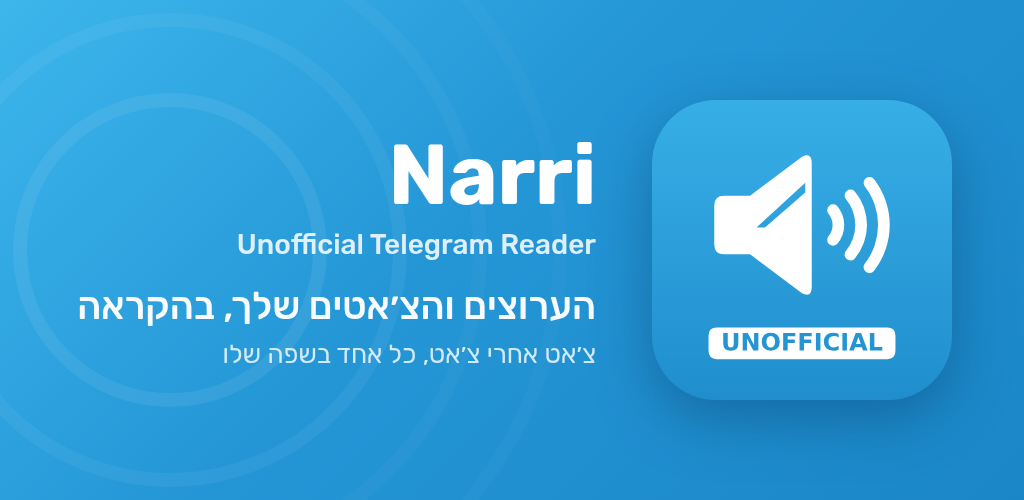
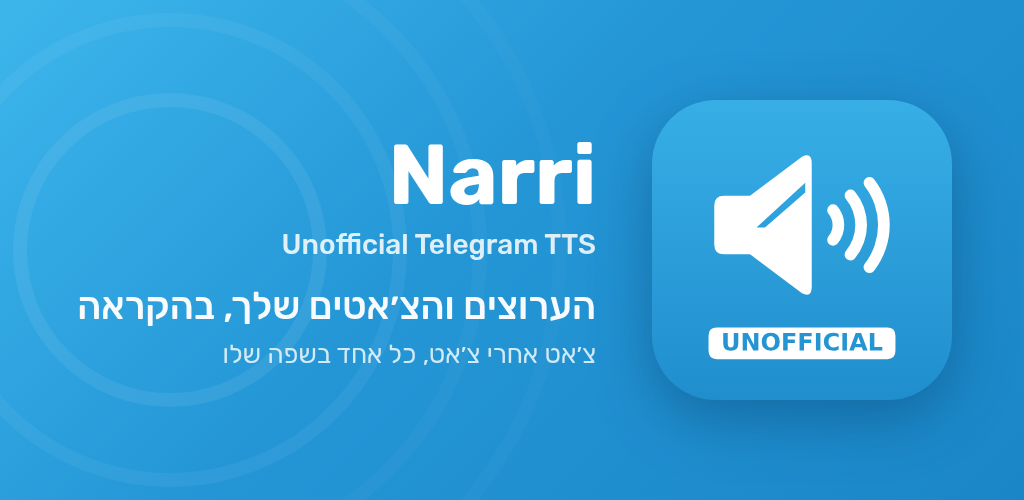
Play title: Narri: Unofficial Telegram TTS (#108)

Changed region(s): [[0.2188, 0.45, 0.5938, 0.54]]

diff --git a/tools/play-assets/generate_store_graphics.py b/tools/play-assets/generate_store_graphics.py
@@ -62,7 +62,7 @@ h1{{margin:0;font-size:84px;font-weight:700;line-height:1.08;letter-spacing:-.5p
 </style></head><body><svg class="bg" width="1024" height="500">{waves}</svg>
 <div class="row"><div class="icon">{icon_svg(300, rounded=64)}</div>
 <div><h1 dir="ltr" style="text-align:{'right' if rtl else 'left'}">Narri</h1>
-<div class="kicker" dir="ltr" style="text-align:{'right' if rtl else 'left'}">Unofficial Telegram Reader</div>
+<div class="kicker" dir="ltr" style="text-align:{'right' if rtl else 'left'}">Unofficial Telegram TTS</div>
 <div class="tag">{tag}</div><div class="sub">{sub}</div></div></div></body></html>"""
 
 

diff --git a/docs/play-data-safety.md b/docs/play-data-safety.md
@@ -117,7 +117,7 @@ Suggested text (option 2):
 
 ## Store listing draft
 
-**App name** (30 max): `Narri: Unofficial Telegram Reader` (33: **over Play's 30-character limit**; if Play Console rejects it, shorten to e.g. `Narri - Unofficial Telegram` (27)). The launcher name (`app_name`) is just `Narri`. Use the same title in every language: Telegram's
+**App name** (30 max): `Narri: Unofficial Telegram TTS` (30). The launcher name (`app_name`) is just `Narri`. Use the same title in every language: Telegram's
 terms allow "Telegram" in a title only when preceded by "Unofficial", which does not work with Hebrew word order.
 
 **Category:** Communication (alternative: Productivity). **Tags:** text to speech, messaging, accessibility.
@@ -233,7 +233,7 @@ Source: <https://core.telegram.org/api/terms>. Status of this commit:
 | 1.5 No use of Telegram data for AI training | OK | Nothing is used for training. The Edge (default) and OpenAI engines only synthesize speech (inference) for the messages being read; the OpenAI API does not train on API data by default |
 | 2.1 Own `api_id` | **Action** | Use an `api_id` registered at my.telegram.org for this app (title/description there should describe this app), only in `local.properties` / CI secrets |
 | 2.2 Say prominently that the app uses the Telegram API (store description + in-app intro) | OK | Second paragraph of the store descriptions above; notice in the first-run introduction, on the login screen and in *Voice settings → About* |
-| 2.3 Title must not contain "Telegram" unless preceded by "Unofficial" | OK (fixed) | Launcher name is "Narri" (no "Telegram"); Play title "Narri: Unofficial Telegram Reader" has "Telegram" preceded by "Unofficial". Formerly "Unofficial Telegram Narrator" |
+| 2.3 Title must not contain "Telegram" unless preceded by "Unofficial" | OK (fixed) | Launcher name is "Narri" (no "Telegram"); Play title "Narri: Unofficial Telegram TTS" has "Telegram" preceded by "Unofficial". Formerly "Unofficial Telegram Narrator" |
 | 2.4 No official Telegram logo | OK | Own icon (white ring on purple). Do not use the paper plane in store graphics or screenshots' frames |
 | 3.1 / 3.2 Monetization disclosed in store descriptions | OK | No monetization by the developer. Telegram's sponsored messages (3.3) are Telegram's, not the app's; the store descriptions still mention them. If you ever add your own monetization, list every method in the store descriptions |
 | 3.3 Apps that show channel content must support official sponsored messages | OK | Channels and bot chats: `getChatSponsoredMessages` (5-minute cache) when the chat is played or its preview opened. After the chat's last unread message the ad is read aloud ("Sponsored" / "ממומן", or "Recommended" / "מומלץ", then title and text) and shown as a card (label, accent color, sponsor photo, title, text, media, button; confirmation before non-Telegram links; ⋮ Sponsor info / About these ads / Report with Telegram's option flow); it is also at the bottom of the chat's preview sheet. Views through `viewMessages` (TDLib 1.8.56 has no `viewSponsoredMessage`), at most once per ad per fetch, when read aloud in full or fully on screen; clicks via `clickChatSponsoredMessage`; reports via `reportChatSponsoredMessage`. Channel cleaning rules never touch it. See [architecture.md](architecture.md#sponsored-messages) |

diff --git a/docs/publishing.md b/docs/publishing.md
@@ -12,7 +12,7 @@ How to build, sign, version and publish the app on Google Play. Companion docs:
 |---|---|---|
 | `applicationId` | `io.github.yedidyatob.telegramnarrator` | **Permanent.** Play never allows it to change after the first upload. |
 | Kotlin `namespace` / package | `io.github.yedidyatob.telegramnarrator` | Can be refactored later without affecting users; kept equal to the ID. |
-| Display name | `Narri` (`app_name`, launcher label); Play title `Narri: Unofficial Telegram Reader` | Telegram API ToS 2.3: the title may only contain "Telegram" when preceded by "Unofficial". See [play-data-safety.md](play-data-safety.md#telegram-api-terms-of-service-checklist). |
+| Display name | `Narri` (`app_name`, launcher label); Play title `Narri: Unofficial Telegram TTS` | Telegram API ToS 2.3: the title may only contain "Telegram" when preceded by "Unofficial". See [play-data-safety.md](play-data-safety.md#telegram-api-terms-of-service-checklist). |
 | `minSdk` / `targetSdk` / `compileSdk` | 26 / 36 / 36 | Play requires `targetSdk` 36 for new apps and updates since Aug 31, 2026. |
 
 > The `applicationId` replaced the old placeholder ID used by earlier builds, so the new build is a **different app**:
@@ -131,7 +131,7 @@ Play usually picks it up from the AAB automatically.
 ## 5. Play Console: first release
 
 1. Create a developer account (personal) and verify your identity.
-2. **Create app**: name `Narri: Unofficial Telegram Reader` (see the 30-character note in [play-data-safety.md](play-data-safety.md#store-listing-draft)), default language English (en-US), App, Free.
+2. **Create app**: name `Narri: Unofficial Telegram TTS`, default language English (en-US), App, Free.
 3. **App content** (Policy → App content):
    - *Privacy policy*: `https://yedidyatob.github.io/TelegramNarrator/privacy-policy.html`, the hosted
      [privacy-policy.md](privacy-policy.md) (see §7). It must be the same URL as the in-app link

diff --git a/README.md b/README.md
@@ -1,4 +1,4 @@
-# Narri (Unofficial Telegram Reader)
+# Narri (Unofficial Telegram TTS)
 
 **Narri** (the app's display name) is an Android app that reads your **unread Telegram messages aloud** (text-to-speech), with a focus on
 Hebrew and mixed Hebrew/English channels. It logs in with your own Telegram account through
